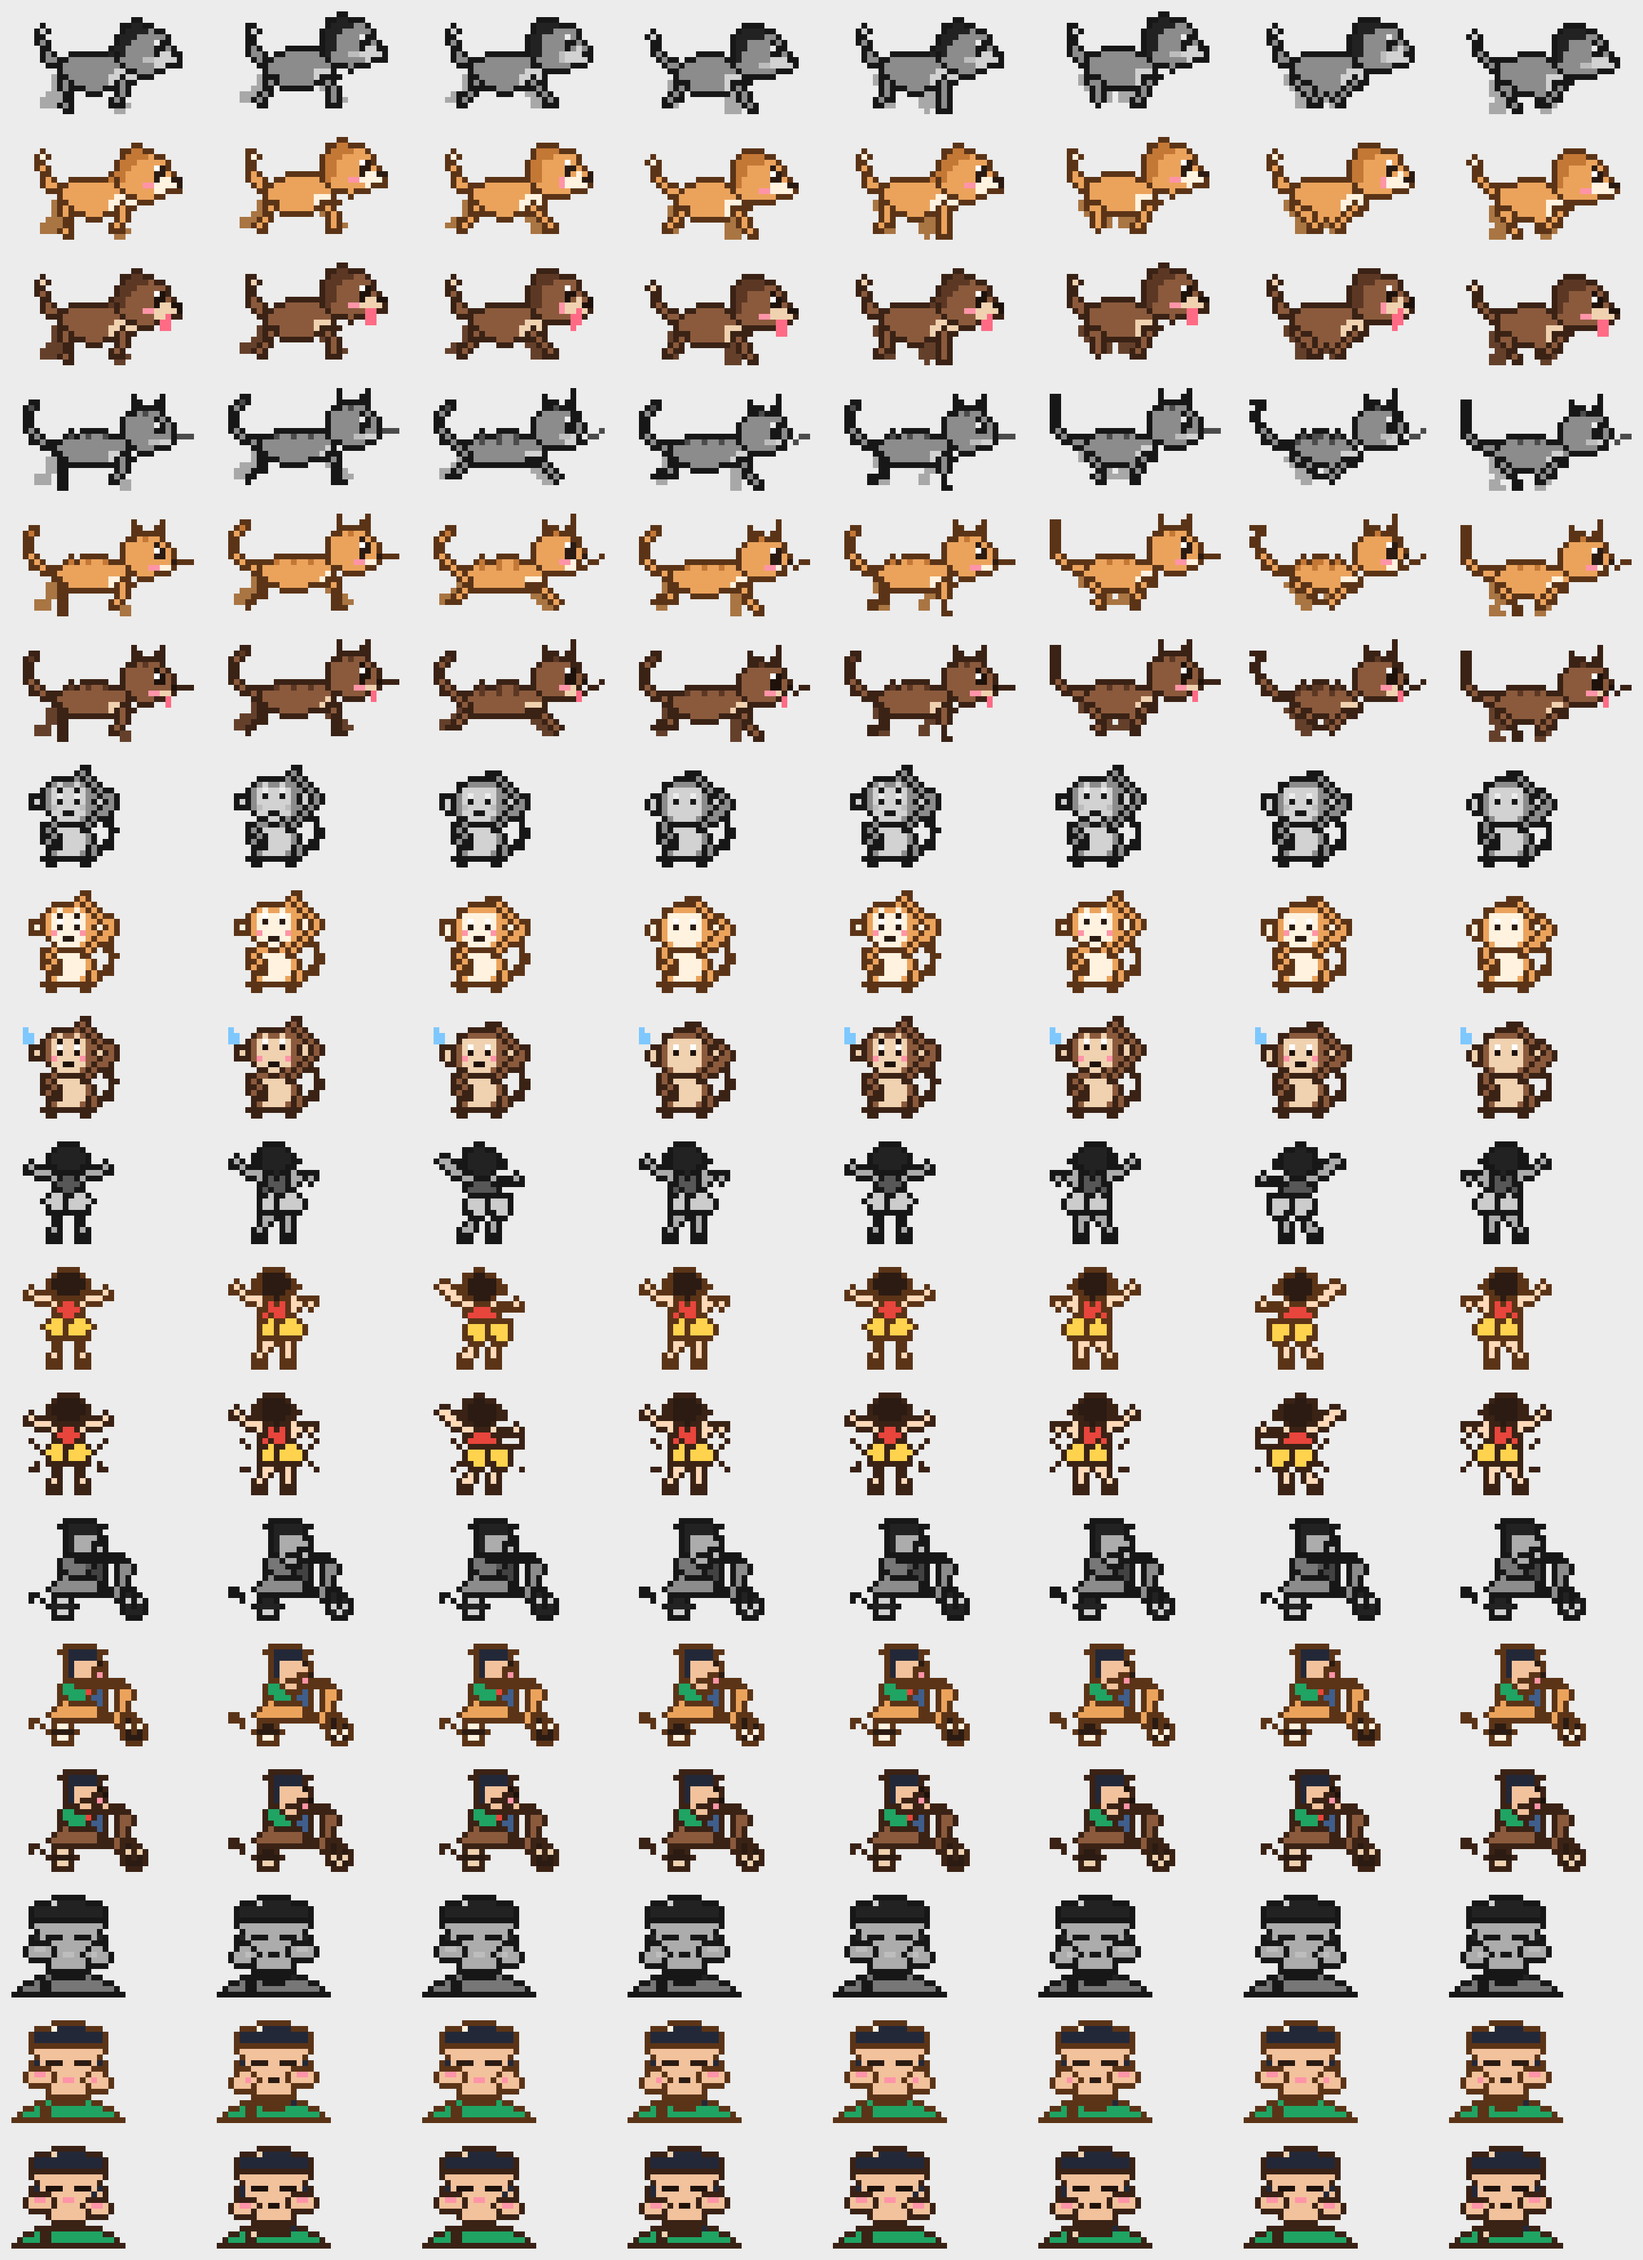
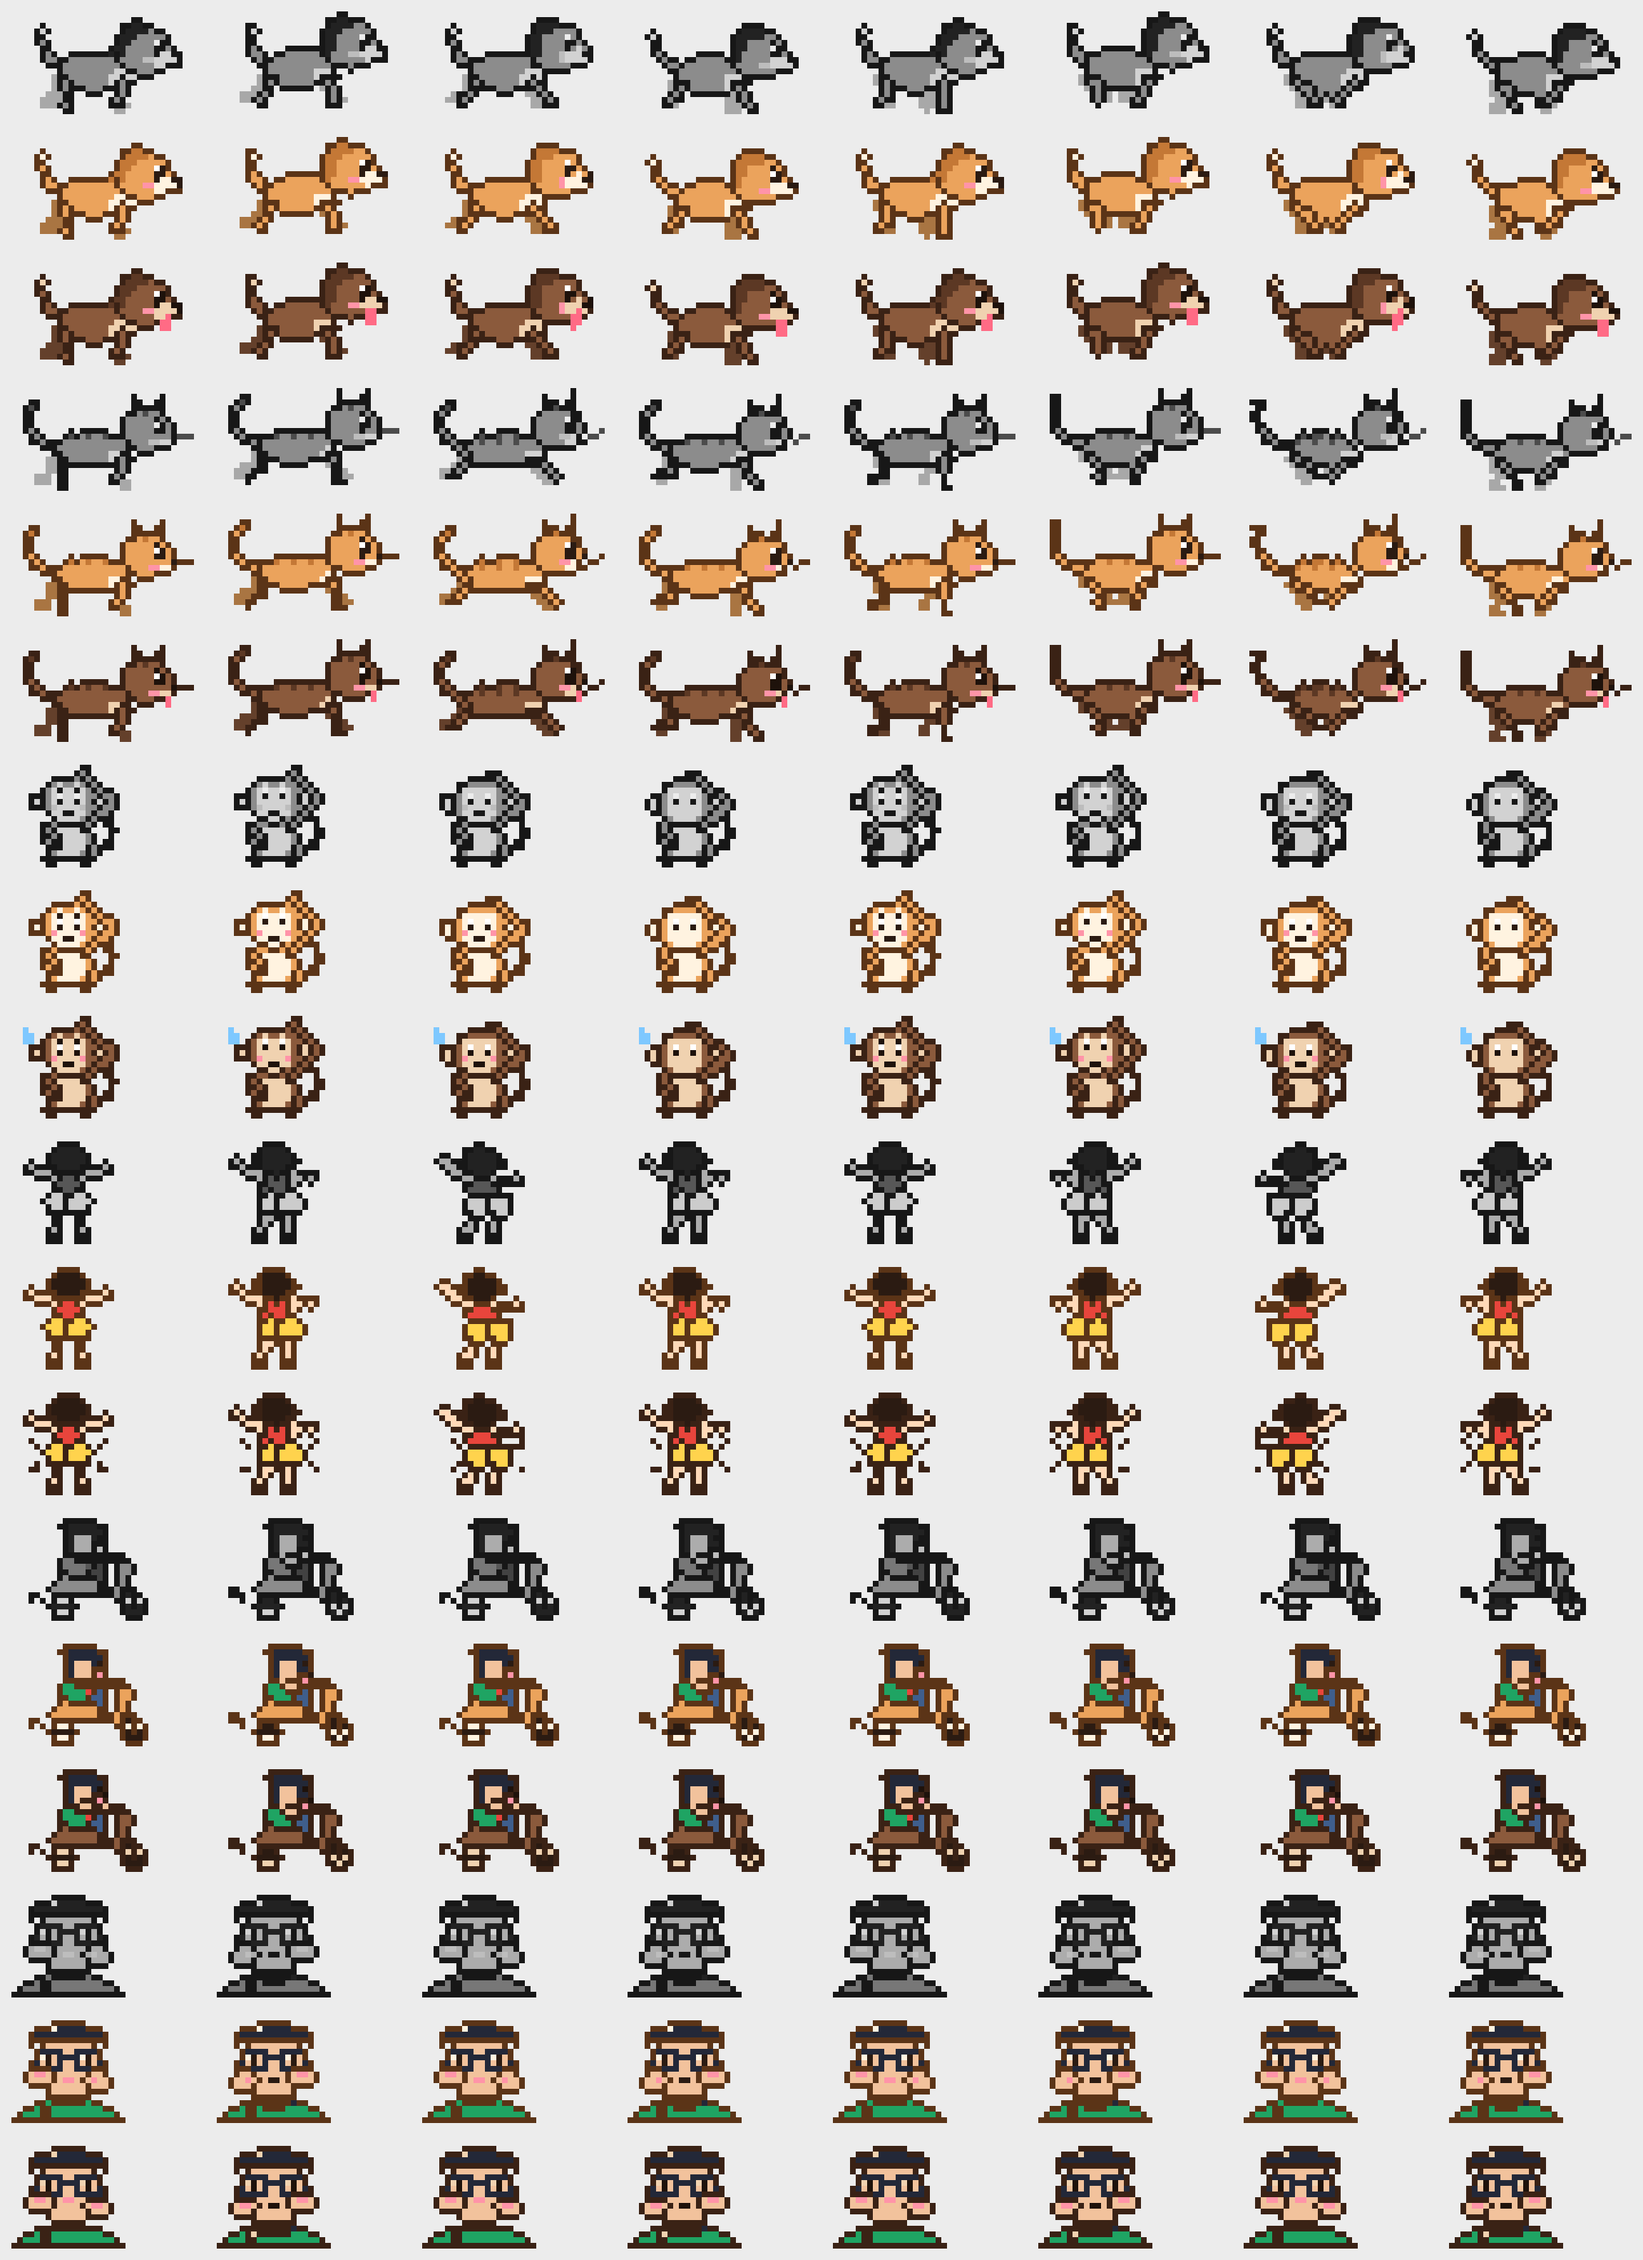
상동호수공원 캐릭터에 검정 뿔테 안경 추가
- 얼굴: 렌즈 두 개를 띄우고 코다리로 연결, 렌즈 안에 점 눈과 반짝이
- 스쿠터: 옆에서 본 안경알과 다리
- Windows: 아이콘 배율마다 테가 끊기지 않게 안경을 픽셀 단위로 대칭 맞춰 그림

diff --git a/mac/main.swift b/mac/main.swift
@@ -185,6 +185,14 @@ func triangle(_ a: P, _ b: P, _ c: P) -> Shape {
     }
 }
 
+// 속이 빈 사각 테 (안경알 테두리)
+func frame(_ cx: Double, _ cy: Double, _ hw: Double, _ hh: Double, thickness: Double) -> Shape {
+    return { x, y in
+        let dx = abs(x - cx), dy = abs(y - cy)
+        return dx <= hw && dy <= hh && (dx > hw - thickness || dy > hh - thickness)
+    }
+}
+
 func union(_ shapes: [Shape]) -> Shape {
     return { x, y in shapes.contains { $0(x, y) } }
 }
@@ -431,7 +439,11 @@ func scooterFrame(_ t: Double, stress: Bool) -> Canvas {
     c.paint(.blush, ellipse(15.3, 12 + r + cheek, 0.8, 0.5))
     c.paint(.helmet, ellipse(12.2, 16.5 + r, 4.4, 1.4))
     c.paint(.helmet, capsule(P(10, 15.3 + r), P(10.8, 11.6 + r + jowl * 0.6), 0.4))
-    c.paint(.dark, ellipse(15.7, 14.3 + r, 0.55, 0.8))
+    // 옆에서 본 뿔테 안경: 밝은 알 + 테 + 점 눈, 귀까지 가는 다리
+    c.paint(.light, frame(15.5, 14.5 + r, 1.4, 1.4, thickness: 1.4))
+    c.paint(.helmet, frame(15.5, 14.5 + r, 1.4, 1.4, thickness: 0.5))
+    c.paint(.dark, ellipse(15.5, 14.5 + r, 0.45, 0.45))
+    c.paint(.helmet, capsule(P(14, 14.9 + r), P(12.2, 15.1 + r), 0.35))
     c.paint(.dark, ellipse(16.6, 12.9 + r + cheek * 0.5, 0.45, 0.4))
     if stress {
         // 바람 가르는 효과선
@@ -443,7 +455,7 @@ func scooterFrame(_ t: Double, stress: Bool) -> Canvas {
 }
 
 // B. 영상처럼 셀카 시점의 얼굴 클로즈업: 남색 반모 헬멧(검정 턱끈, 왼쪽 빨간 버클), 청록 티셔츠와 가슴 패치,
-// 통통한 볼과 이중턱, 가는 눈, 뾰로통 내민 입. 양 볼살과 턱살이 엇갈려 덜덜 떨림
+// 통통한 볼과 이중턱, 가는 눈과 검정 뿔테 안경, 뾰로통 내민 입. 양 볼살과 턱살이 엇갈려 덜덜 떨림
 func faceFrame(_ t: Double, stress: Bool) -> Canvas {
     let w = 2 * Double.pi * t
     let amp = stress ? 0.8 : 0.5
@@ -462,8 +474,8 @@ func faceFrame(_ t: Double, stress: Bool) -> Canvas {
     // 통통한 얼굴 (넓고 둥글게)
     c.paint(.tan, newPart: true, ellipse(10, 10 + head, 6.7, 5.2))
     // 검정 턱끈: 볼살 뒤로 지나가서 관자놀이와 턱 밑에만 보임
-    c.paint(.helmet, capsule(P(3.8, 12.8 + head), P(7, 3.8 + head + chin), 0.45))
-    c.paint(.helmet, capsule(P(16.2, 12.8 + head), P(13, 3.8 + head + chin), 0.45))
+    c.paint(.helmet, capsule(P(3.8, 13.8 + head), P(7, 3.8 + head + chin), 0.45))
+    c.paint(.helmet, capsule(P(16.2, 13.8 + head), P(13, 3.8 + head + chin), 0.45))
     // 처진 양 볼살 → 턱살 → 이중턱 (볼과 이중턱은 테두리가 생겨서 살 접힘처럼 보임)
     c.paint(.tan, newPart: true, ellipse(4.9, 7.6 + head + left, 2.7, 2.3))
     c.paint(.tan, newPart: true, ellipse(15.1, 7.6 + head + right, 2.7, 2.3))
@@ -474,13 +486,17 @@ func faceFrame(_ t: Double, stress: Bool) -> Canvas {
     // 왼쪽 턱 아래 빨간 버클
     c.paint(.shirt, newPart: true, ellipse(6.3, 4.4 + head + chin, 0.8, 0.7))
     // 남색 반모 헬멧: 이마 위만 덮음 + 반짝이
-    let helmetY = 12.8 + head
+    let helmetY = 13.8 + head
     c.paint(.helmet, newPart: true, { x, y in y > helmetY && ellipse(10, 13.8 + head, 7.2, 4.2)(x, y) })
     c.paint(.light, ellipse(6.8, 16.2 + head, 1, 0.6))
-    // 가는 눈
-    for ex in [7.4, 12.6] {
-        c.paint(.dark, capsule(P(ex - 0.8, 10.2 + head), P(ex + 0.8, 10.2 + head), 0.45))
+    // 검정 뿔테 안경: 5x4픽셀 테 두 개를 가운데 2픽셀 띄우고 코다리로 연결.
+    // 렌즈 안은 피부색에 세로로 긴 점 눈 + 반짝이 한 점 (픽셀 격자에 맞게 x.5 위치)
+    for ex in [6.5, 13.5] {
+        c.paint(.helmet, frame(ex, 11 + head, 2.4, 1.9, thickness: 0.5))
+        c.paint(.dark, ellipse(ex, 11 + head, 0.45, 0.9))
+        c.dot(.light, P(ex - 1, 11.5 + head))
     }
+    c.paint(.helmet, capsule(P(9, 11.5 + head), P(11, 11.5 + head), 0.4))
     // 뾰로통 내민 입술 (테두리 없이 분홍 + 가운데 작게 벌린 입)
     let mouthY = 7.8 + head + chin * 0.3
     c.paint(.blush, ellipse(10, mouthY, 0.9 + 0.3 * pout, 0.6))

diff --git a/windows/rundog.py b/windows/rundog.py
@@ -81,6 +81,13 @@ class Canvas:
         if 0 <= x < self.w and 0 <= y < self.h:
             self.ink[y * self.w + x] = ink
 
+    def set_px(self, ink, x, y):
+        """픽셀 좌표로 바로 찍기 (배율과 상관없이 1픽셀 선이 필요한 안경테 같은 곳)."""
+        if 0 <= x < self.w and 0 <= y < self.h:
+            if self.ink[y * self.w + x] == NONE:
+                self.part[y * self.w + x] = self.parts
+            self.ink[y * self.w + x] = ink
+
     def at(self, x, y):
         return self.ink[y * self.w + x] if 0 <= x < self.w and 0 <= y < self.h else NONE
 
@@ -179,6 +186,15 @@ def triangle(a, b, c):
 
     xs, ys = (a[0], b[0], c[0]), (a[1], b[1], c[1])
     return Shape(test, (min(xs), min(ys), max(xs), max(ys)))
+
+
+def frame(cx, cy, hw, hh, thickness):
+    """속이 빈 사각 테 (안경알 테두리)."""
+    def test(x, y):
+        dx, dy = abs(x - cx), abs(y - cy)
+        return dx <= hw and dy <= hh and (dx > hw - thickness or dy > hh - thickness)
+
+    return Shape(test, (cx - hw, cy - hh, cx + hw, cy + hh))
 
 
 def union(*shapes):
@@ -416,7 +432,11 @@ def scooter_frame(c, t, stress):
     c.paint(BLUSH, ellipse(15.3, 12 + r + cheek, 0.8, 0.5))
     c.paint(HELMET, ellipse(12.2, 16.5 + r, 4.4, 1.4))
     c.paint(HELMET, capsule((10, 15.3 + r), (10.8, 11.6 + r + jowl * 0.6), 0.4))
-    c.paint(DARK, ellipse(15.7, 14.3 + r, 0.55, 0.8))
+    # 옆에서 본 뿔테 안경: 밝은 알 + 테 + 점 눈, 귀까지 가는 다리
+    c.paint(LIGHT, frame(15.5, 14.5 + r, 1.4, 1.4, 1.4))
+    c.paint(HELMET, frame(15.5, 14.5 + r, 1.4, 1.4, 0.5))
+    c.paint(DARK, ellipse(15.5, 14.5 + r, 0.45, 0.45))
+    c.paint(HELMET, capsule((14, 14.9 + r), (12.2, 15.1 + r), 0.35))
     c.paint(DARK, ellipse(16.6, 12.9 + r + cheek * 0.5, 0.45, 0.4))
     if stress:
         # 바람 가르는 효과선
@@ -424,9 +444,37 @@ def scooter_frame(c, t, stress):
             c.paint(WHISKER, capsule((1.5, y), (5, y), 0.45), only_empty=True)
 
 
+def face_glasses(c, cy):
+    """검정 뿔테 안경: 렌즈 두 개를 가운데 띄우고 코다리로 연결, 렌즈 안엔 세로로 긴 점 눈 + 반짝이.
+    아이콘 배율이 제각각이라 테가 끊기거나 두꺼워지지 않게 픽셀 단위로 좌우 대칭을 맞춰 찍음."""
+    s = c.scale
+    lw = max(5, int(round(4.8 * s)) | 1)  # 렌즈 폭: 홀수라야 눈이 가운데 옴
+    lh = max(4, int(round(3 * s)))
+    m2 = int(round((10 + c.ox) * s * 2))   # 얼굴 가운데 (반 픽셀 단위)
+    if m2 % 2 == 0:  # 가운데가 픽셀 경계 → 틈도 짝수
+        gap = max(2, int(round(2 * s / 2)) * 2)
+        left_end = m2 // 2 - gap // 2 - 1
+    else:            # 가운데가 픽셀 한가운데 → 틈도 홀수
+        gap = max(1, int(round(2 * s)) | 1)
+        left_end = (m2 - 1) // 2 - (gap - 1) // 2 - 1
+    top = int(round((cy + c.oy) * s + lh / 2)) - 1
+    for x0 in (left_end - lw + 1, left_end + gap + 1):
+        for x in range(x0, x0 + lw):
+            for y in range(top - lh + 1, top + 1):
+                if x in (x0, x0 + lw - 1) or y in (top, top - lh + 1):
+                    c.set_px(HELMET, x, y)
+        eye_x = x0 + lw // 2
+        for y in range(top - lh + 2, top):
+            if abs(y - (top - (lh - 1) / 2)) <= 1:
+                c.set_px(DARK, eye_x, y)
+        c.set_px(LIGHT, x0 + 1, top - 1)
+    for x in range(left_end + 1, left_end + gap + 1):
+        c.set_px(HELMET, x, top - 1)
+
+
 def face_frame(c, t, stress):
     """B. 영상처럼 셀카 시점의 얼굴 클로즈업: 남색 반모 헬멧(검정 턱끈, 왼쪽 빨간 버클), 청록 티셔츠와 가슴 패치,
-    통통한 볼과 이중턱, 가는 눈, 뾰로통 내민 입. 양 볼살과 턱살이 엇갈려 덜덜 떨림."""
+    통통한 볼과 이중턱, 가는 눈과 검정 뿔테 안경, 뾰로통 내민 입. 양 볼살과 턱살이 엇갈려 덜덜 떨림."""
     w = 2 * math.pi * t
     amp = 0.8 if stress else 0.5
     head = 0.15 * math.sin(4 * w)
@@ -443,8 +491,9 @@ def face_frame(c, t, stress):
     # 통통한 얼굴 (넓고 둥글게)
     c.paint(TAN, ellipse(10, 10 + head, 6.7, 5.2), new_part=True)
     # 검정 턱끈: 볼살 뒤로 지나가서 관자놀이와 턱 밑에만 보임
-    c.paint(HELMET, capsule((3.8, 12.8 + head), (7, 3.8 + head + chin), 0.45))
-    c.paint(HELMET, capsule((16.2, 12.8 + head), (13, 3.8 + head + chin), 0.45))
+    # (Windows는 렌즈가 커서 렌즈 아래부터 그림. 위쪽은 안경 다리에 가려짐)
+    c.paint(HELMET, capsule((4.4, 9.4 + head), (7, 3.8 + head + chin), 0.45))
+    c.paint(HELMET, capsule((15.6, 9.4 + head), (13, 3.8 + head + chin), 0.45))
     # 처진 양 볼살 → 턱살 → 이중턱 (볼과 이중턱은 테두리가 생겨서 살 접힘처럼 보임)
     c.paint(TAN, ellipse(4.9, 7.6 + head + left, 2.7, 2.3), new_part=True)
     c.paint(TAN, ellipse(15.1, 7.6 + head + right, 2.7, 2.3), new_part=True)
@@ -455,12 +504,10 @@ def face_frame(c, t, stress):
     # 왼쪽 턱 아래 빨간 버클
     c.paint(SHIRT, ellipse(6.3, 4.4 + head + chin, 0.8, 0.7), new_part=True)
     # 남색 반모 헬멧: 이마 위만 덮음 + 반짝이
-    helmet_y, dome = 12.8 + head, ellipse(10, 13.8 + head, 7.2, 4.2)
+    helmet_y, dome = 13.8 + head, ellipse(10, 13.8 + head, 7.2, 4.2)
     c.paint(HELMET, Shape(lambda x, y: y > helmet_y and dome.test(x, y), dome.bbox), new_part=True)
     c.paint(LIGHT, ellipse(6.8, 16.2 + head, 1, 0.6))
-    # 가는 눈
-    for ex in (7.4, 12.6):
-        c.paint(DARK, capsule((ex - 0.8, 10.2 + head), (ex + 0.8, 10.2 + head), 0.45))
+    face_glasses(c, 11 + head)
     # 뾰로통 내민 입술 (테두리 없이 분홍 + 가운데 작게 벌린 입)
     mouth_y = 7.8 + head + chin * 0.3
     c.paint(BLUSH, ellipse(10, mouth_y, 0.9 + 0.3 * pout, 0.6))
